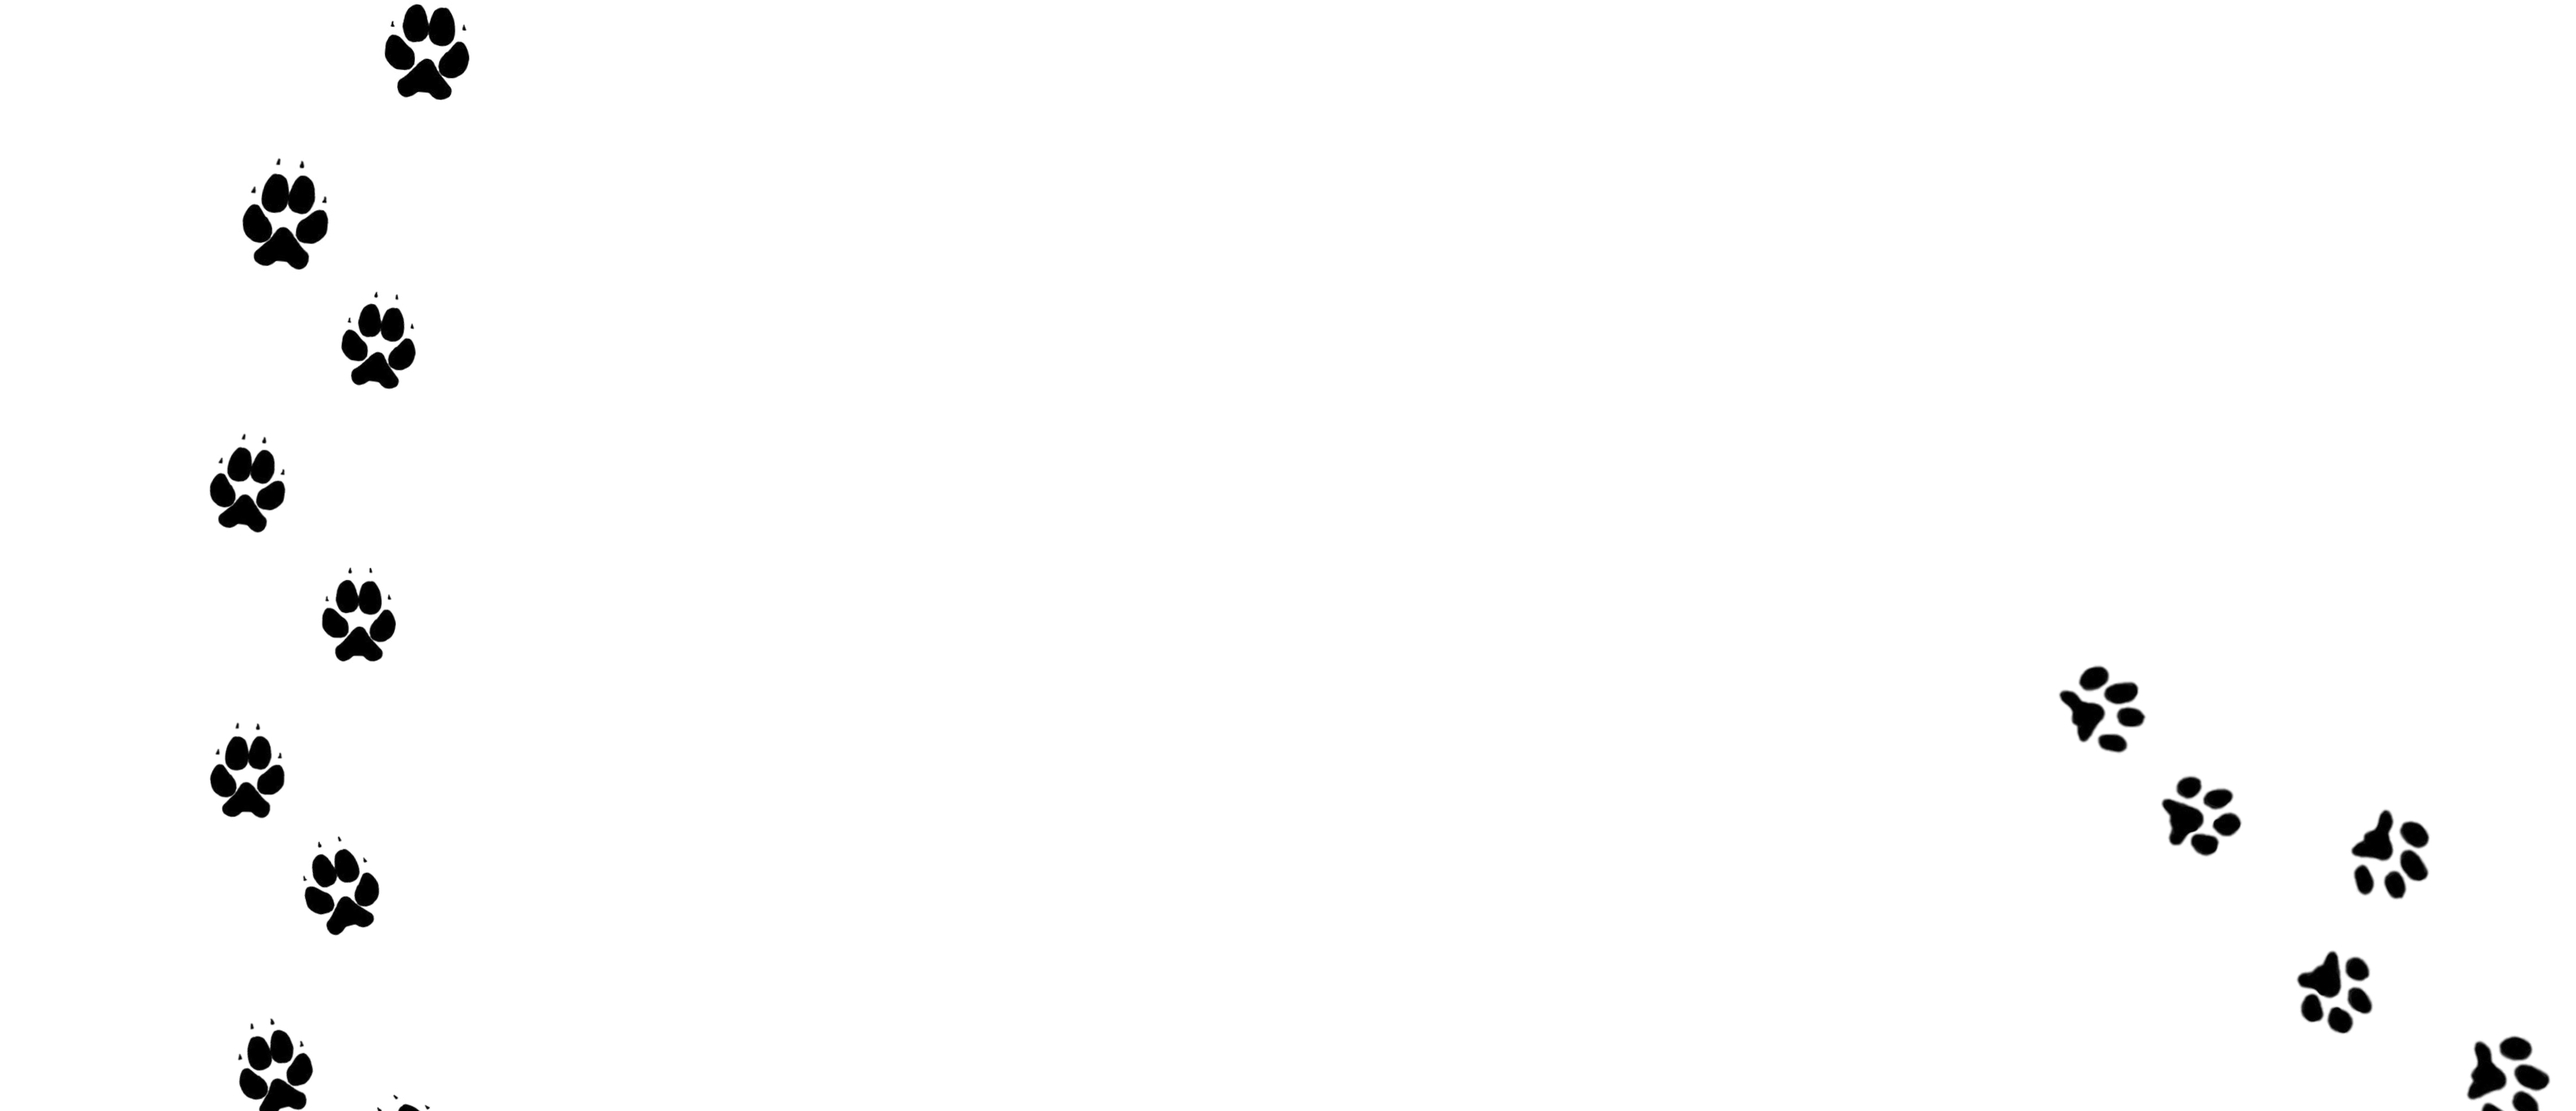
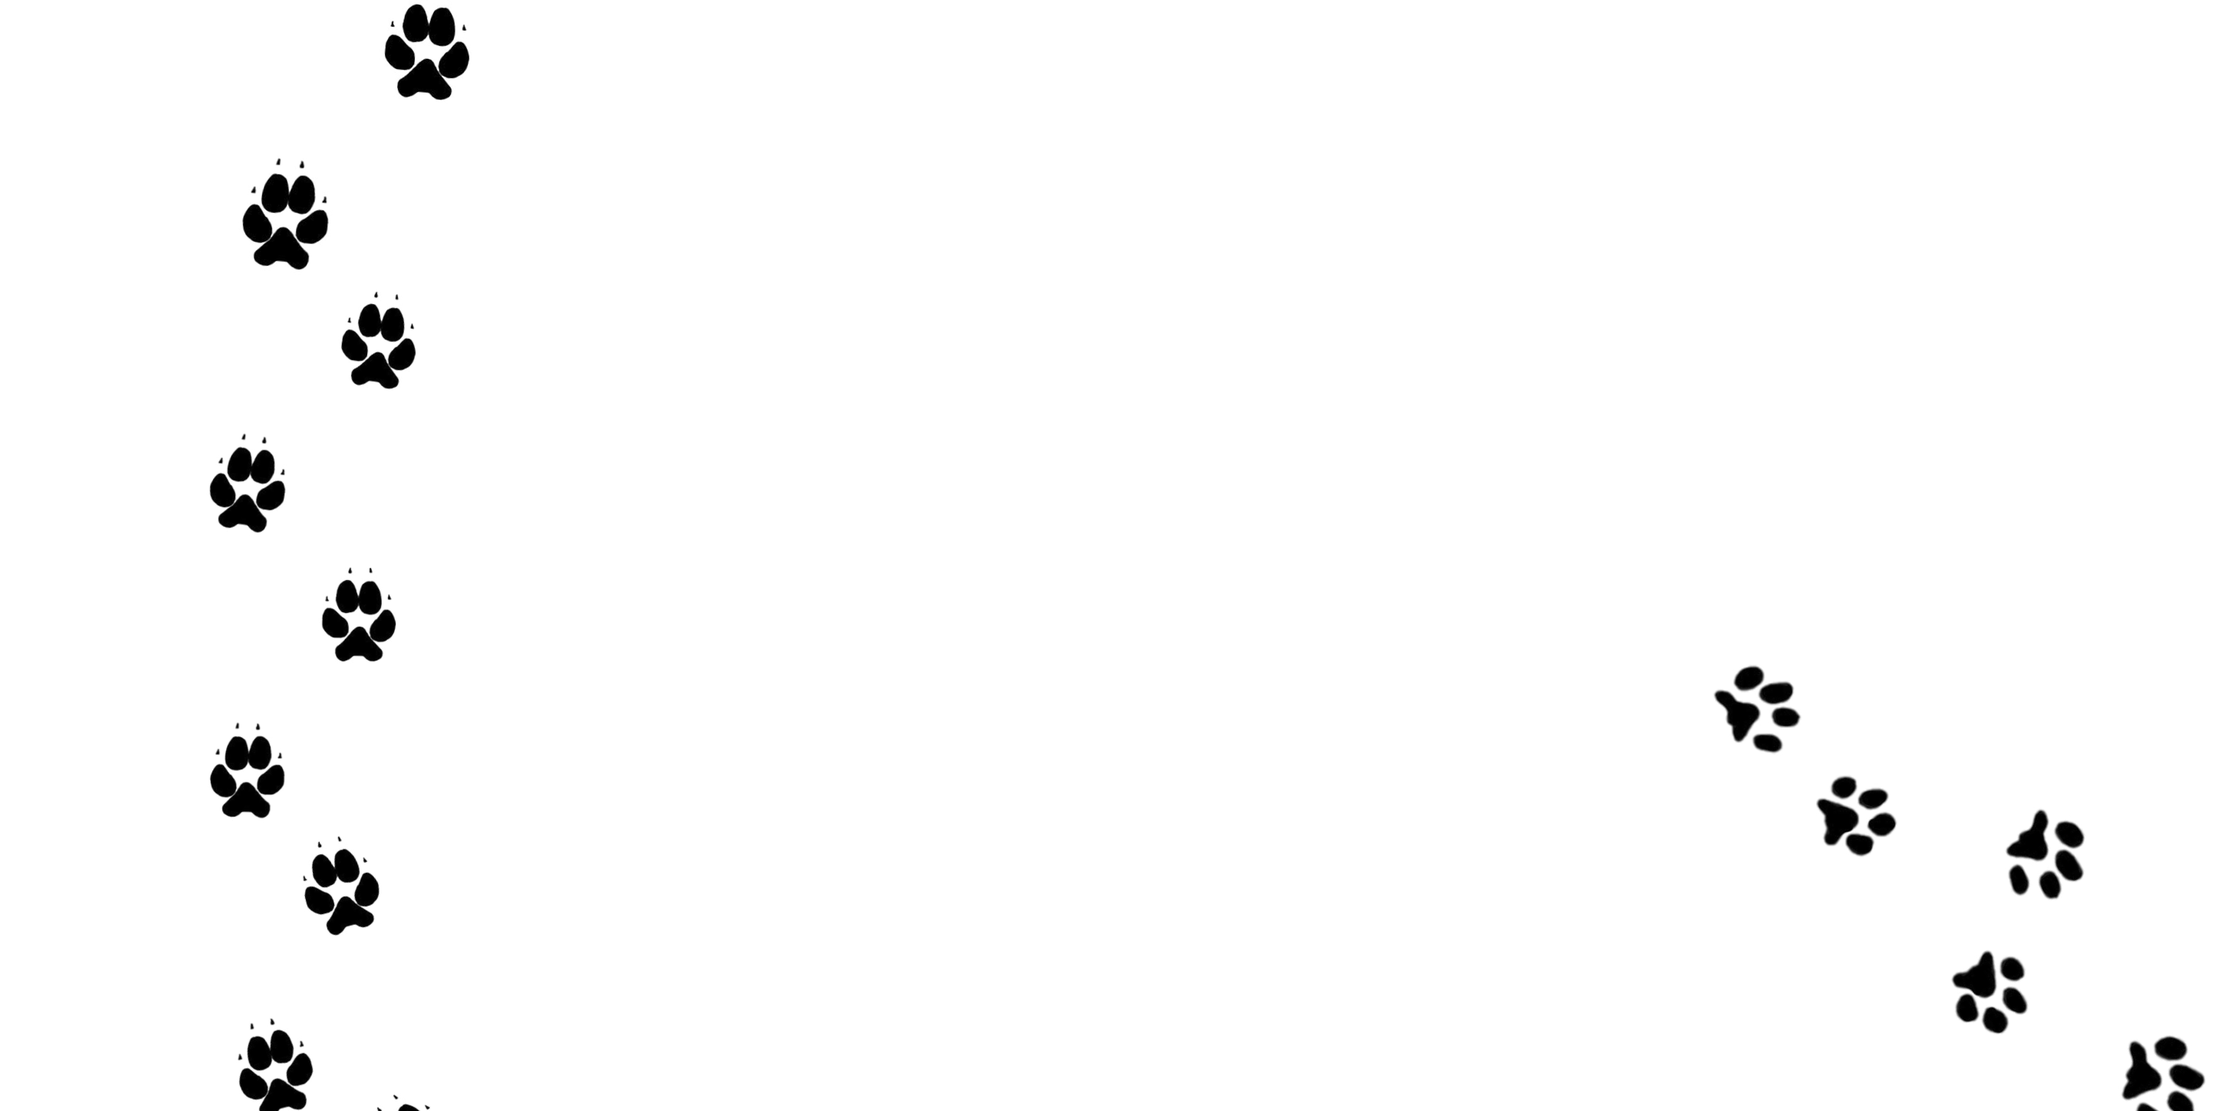
Add files via upload

diff --git a/index.html b/index.html
@@ -3,15 +3,15 @@
   <meta name="viewport" content="width=device-width, initial-scale=1">
 
   <title>Animal Moonwalk Challenge</title>
-  <!-- <link rel="icon" type="img/png" href=""/> -->
+  <link rel="icon" type="img/png" href="maxwcohen.github.io/AnimalMoonwalk/hat.png"/>
   <link rel="stylesheet" href="style.css" />
   <link href="https://fonts.googleapis.com/css?family=Chelsea+Market" rel="stylesheet">
 
   <meta property="og:type" content="website"/>
   <meta property="og:title" content="Animal Moonwalk Challenge"/>
-  <!-- <meta property="og:description" content=""/>
-  <meta property="og:url" content=""/>
-  <meta property="og:image" content=""/> -->
+  <meta property="og:description" content="You and your pet can help to reverse the trend of extinction. Check out how to participate of the challenge."/>
+  <meta property="og:url" content="http://animalmoonwalk.com"/>
+  <meta property="og:image" content="maxwcohen.github.io/AnimalMoonwalk/logo.png"/>
 
   <script defer src="https://mpaulweeks.github.io/cfc2018/static/jquery.js"></script>
   <!-- <script defer src="main.js"></script> -->
@@ -22,7 +22,7 @@
     <div class="slide1Content centerAlign">
       <img class="logo" src="img/logo.png"/>
       <h2 class="introBlurb">
-        Every day, species around the planet are going extinct. And for each species that goes extinct, many more become, and remain endangered due to habitat loss, poaching, and climate change. But guess what: you and your pet can help to reverse the trend of extinction.
+        For each species that goes extinct, many more become, and remain endangered due to habitat loss, poaching, and climate change. But guess what: you and your pet can help to reverse the trend of extinction.
       </h2>
       <div class="videoBox">
         <iframe class="videoEmbed"
@@ -51,36 +51,36 @@
   		  <h2 class="stepTitle">
   			  Step 1.
   		  </h2>
-  		  <div class="stepDesc">
+  		  <p>
           Open the <a class="musically" href="https://www.musical.ly/en-US/" target="_blank">musical.ly</a> app. Before you start recording, search and select a version of Billie Jean available in the library.
-  		  </div>
+  		  </p>
       </div>
       <div class="step">
   		  <div class="stepImage step2Img"></div>
   		  <h2 class="stepTitle">
   			  Step 2.
   		  </h2>
-  		  <div class="stepDesc">
+  		  <p>
           Record a video of your pet walking.
-  		  </div>
+  		  </p>
       </div>
       <div class="step">
   		  <div class="stepImage step3Img"></div>
   		  <h2 class="stepTitle">
   			  Step 3.
   		  </h2>
-  		  <div class="stepDesc">
+  		  <p>
           Then, click on the clock icon and choose the “reverse” option.
-  		  </div>
+  		  </p>
       </div>
       <div class="step">
   		  <div class="stepImage step3Img"></div>
   		  <h2 class="stepTitle">
   			  Step 4.
   		  </h2>
-  		  <div class="stepDesc">
+  		  <p>
           Post and share using the hashtag #AnimalMoonwalk – don’t forget to make your profile open!
-  		  </div>
+  		  </p>
       </div>
     </div>
     <a href="https://www.musical.ly/en-US/">
@@ -111,6 +111,12 @@
         <div class="orangeLine"></div>
       </h1>
     </div>
+  </div>
+
+  <div class="footer flexRow">
+    <p class="footerText">
+        Copyright stuff goes here.
+    </p>
   </div>
 
 </body>

diff --git a/style.css b/style.css
@@ -22,13 +22,23 @@ h2{
 	color: rgb(80, 43, 24);
 }
 
+p{
+  font-family: "Helvetica", "Sans Serif";
+  font-weight: 400;
+  text-align: center;
+  font-size: 11pt;
+  line-height: 1.4em;
+  margin: 0px;
+}
+
 .slide1{
   background-image: url("img/entourage.jpeg");
   background-size: cover;
   background-position: left 50% top 0%;
   /* height: 1138px; */
   height: 100vh;
-  width: calc(100% + 50px);
+  min-height: 800px;
+  width: 100vw;
 }
 
 .slide1Content{
@@ -94,6 +104,7 @@ h2{
 .slide2{
   background-image: url("img/paw_background.png");
   background-size: cover;
+  background-clip: content-box;
   background-position: center;
 	height: auto;
 	position: relative;
@@ -129,6 +140,7 @@ h2{
 .step{
   display: flex;
   flex-direction: column;
+  align-items: center;
   width: 170px;
   margin: 20px 40px;
 }
@@ -164,15 +176,6 @@ h2{
   font-size: 14pt;
 }
 
-.stepDesc{
-  font-family: "Helvetica", "Sans Serif";
-  font-weight: 400;
-  text-align: center;
-  font-size: 11pt;
-  line-height: 1.4em;
-
-}
-
 .musically{
   color: rgb(250, 34, 87);
   font-weight: bold;
@@ -191,6 +194,7 @@ h2{
   background-image: url(img/dogsNcats.jpg);
   background-size: cover;
   background-position: center;
+  width: 100vw;
   /* height: 672px; */
   height: calc(400px + 20vw);
   position: relative;
@@ -228,6 +232,7 @@ h2{
   display: inline-block;
   float: right;
   margin-top: -40px;
+  margin-left: 20px;
 }
 
 .flexRow{
@@ -236,10 +241,6 @@ h2{
   justify-content: center;
   align-items: center;
   flex-wrap: wrap;
-}
-
-.donateContent{
-
 }
 
 .orangeLine{
@@ -255,6 +256,16 @@ h2{
 .slide4{
   height: 585px;
   position: relative;
+}
+
+.footer{
+  height: 60px;
+  background-color: rgb(80, 43, 24);
+}
+
+.footerText{
+  color: #EAEAEA;
+  font-size: 0.6rem;
 }
 
 @media (max-width: 800px) {
@@ -281,8 +292,5 @@ h2{
     }
     .slide1{
       background-position: left 59% top 0%;
-    }
-    .videoContainer{
-
     }
 }
